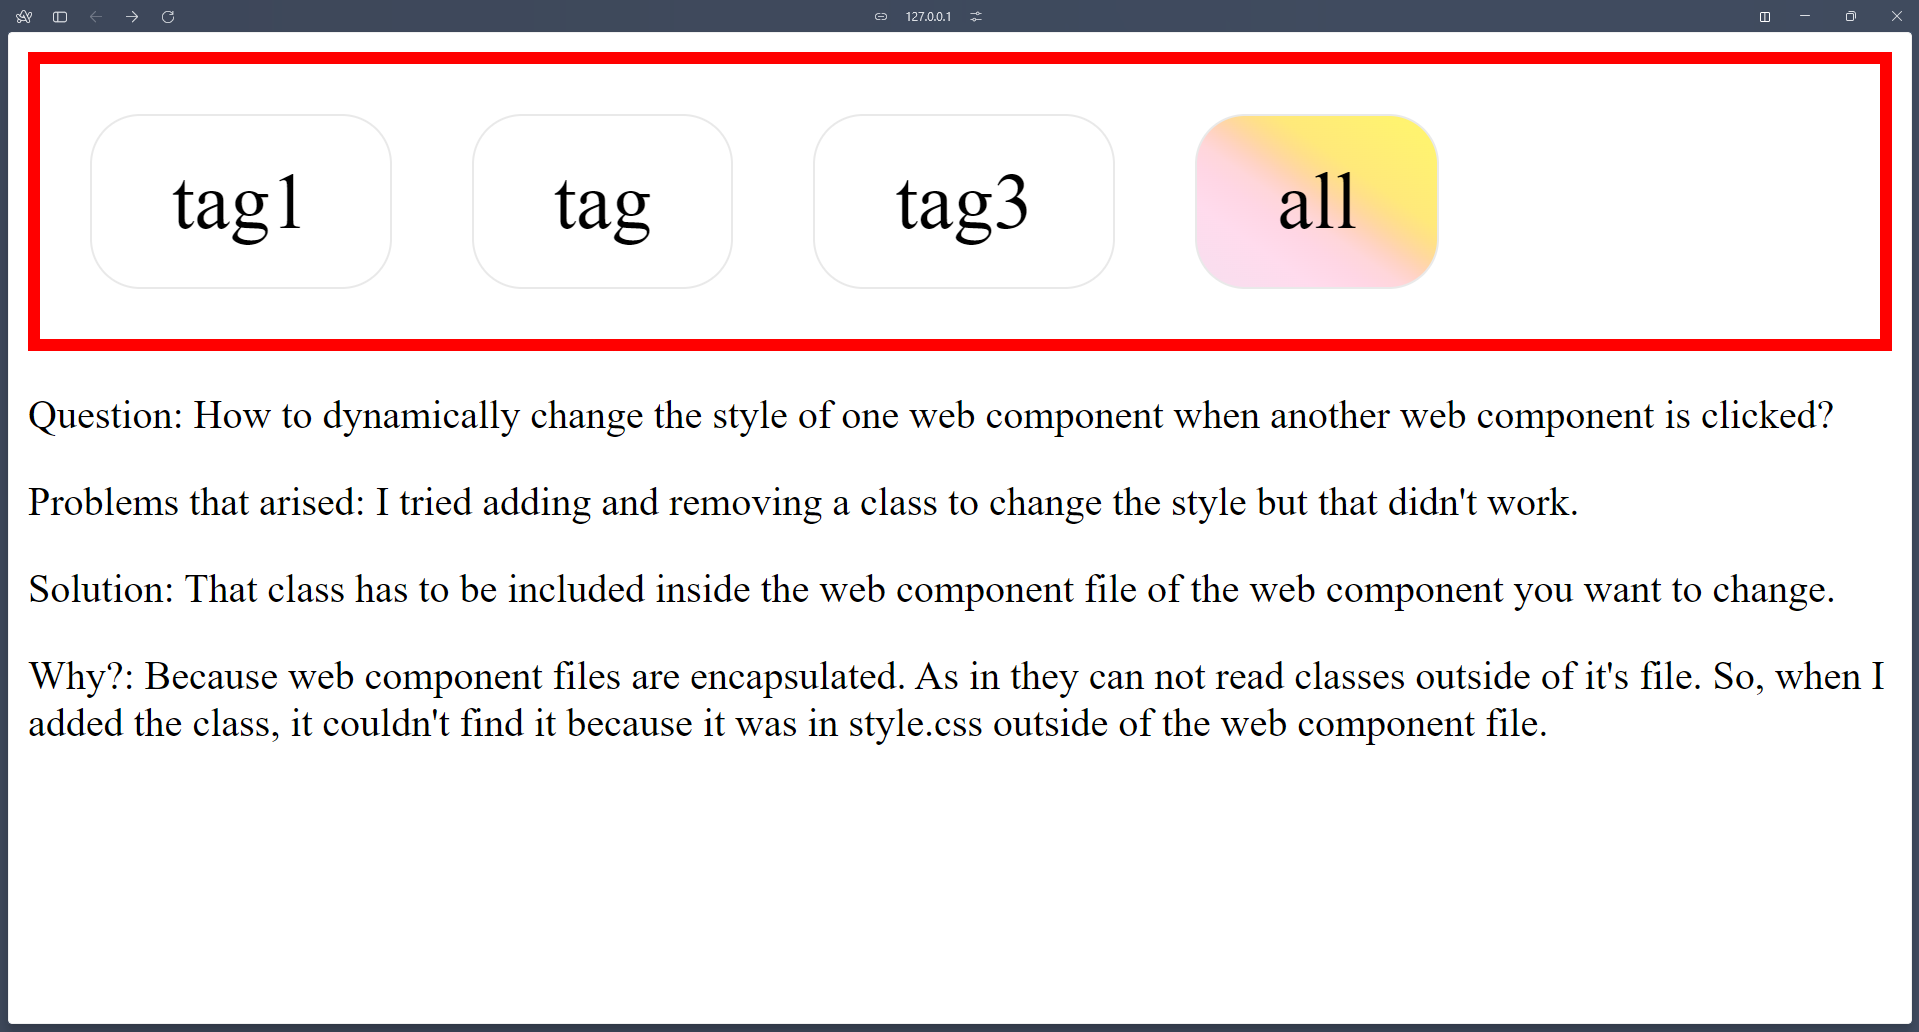
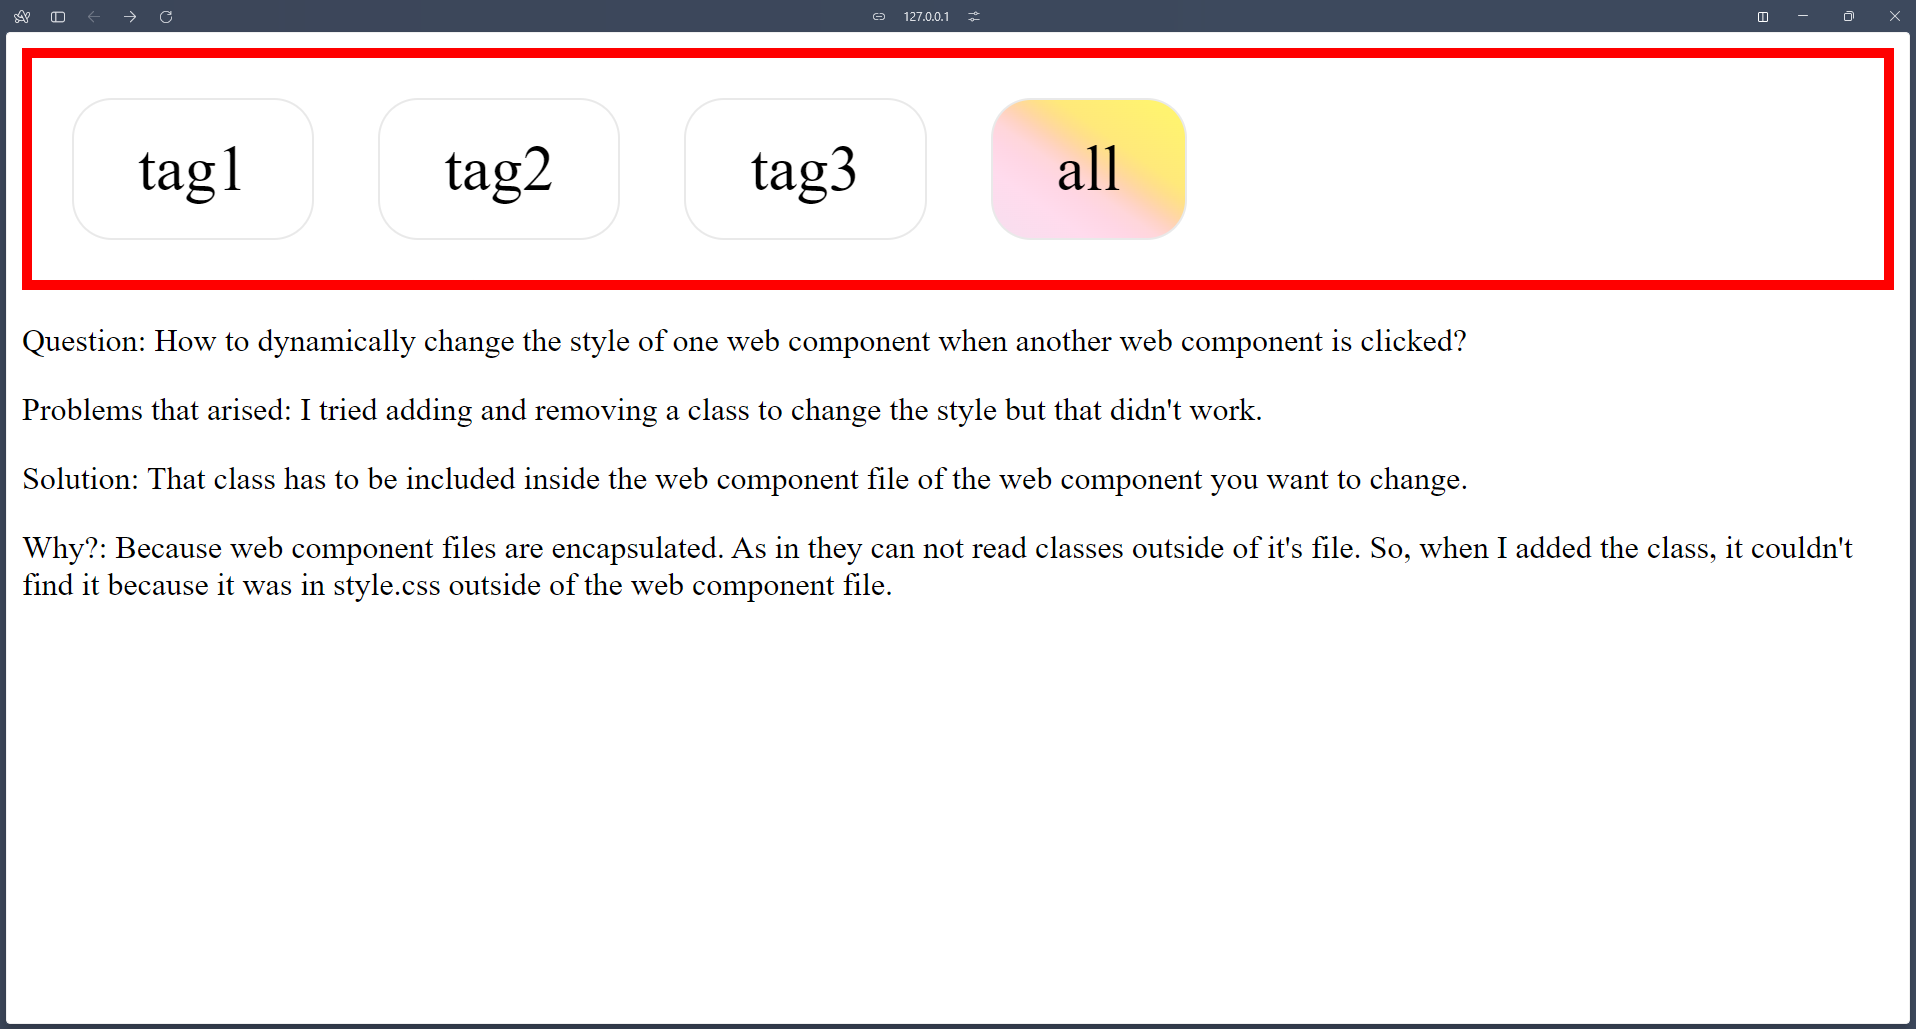
updatedReadMe and changed tag to tag2

diff --git a/index.html b/index.html
@@ -42,7 +42,7 @@
 <script>
 
 // Define the array of tags to be created
-const tags = ["tag1", "tag", "tag3"];	
+const tags = ["tag1", "tag2", "tag3"];	
 
 // Select the container where tags will be added
 const tagsContainer = document.querySelector(".tags");
